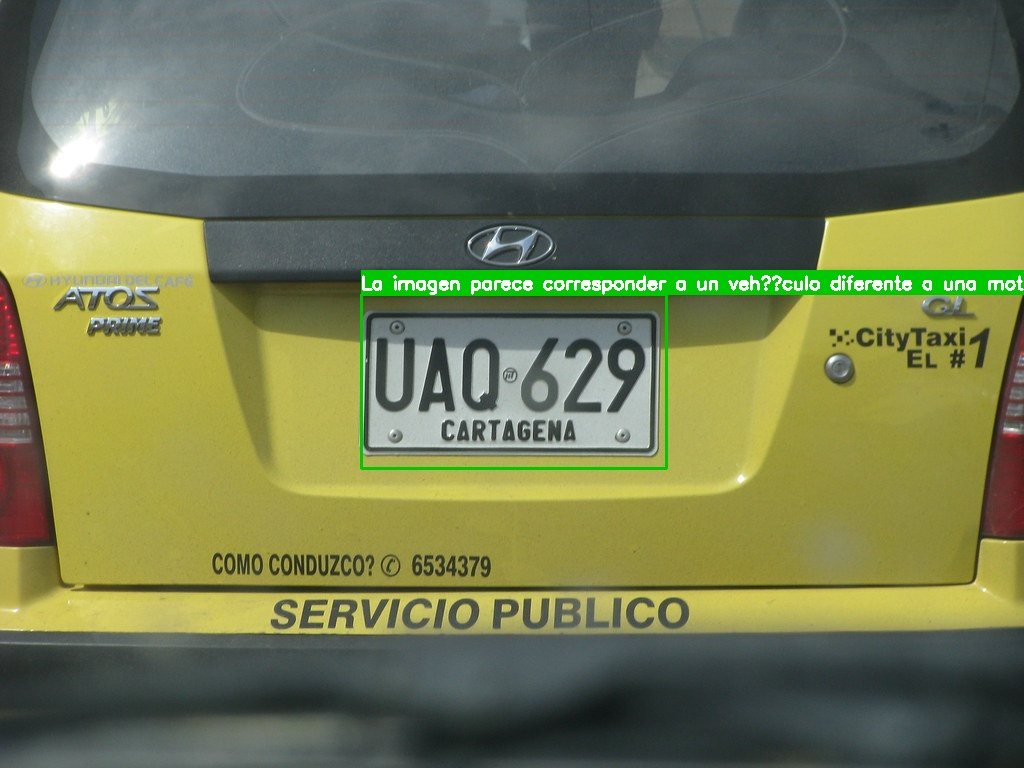
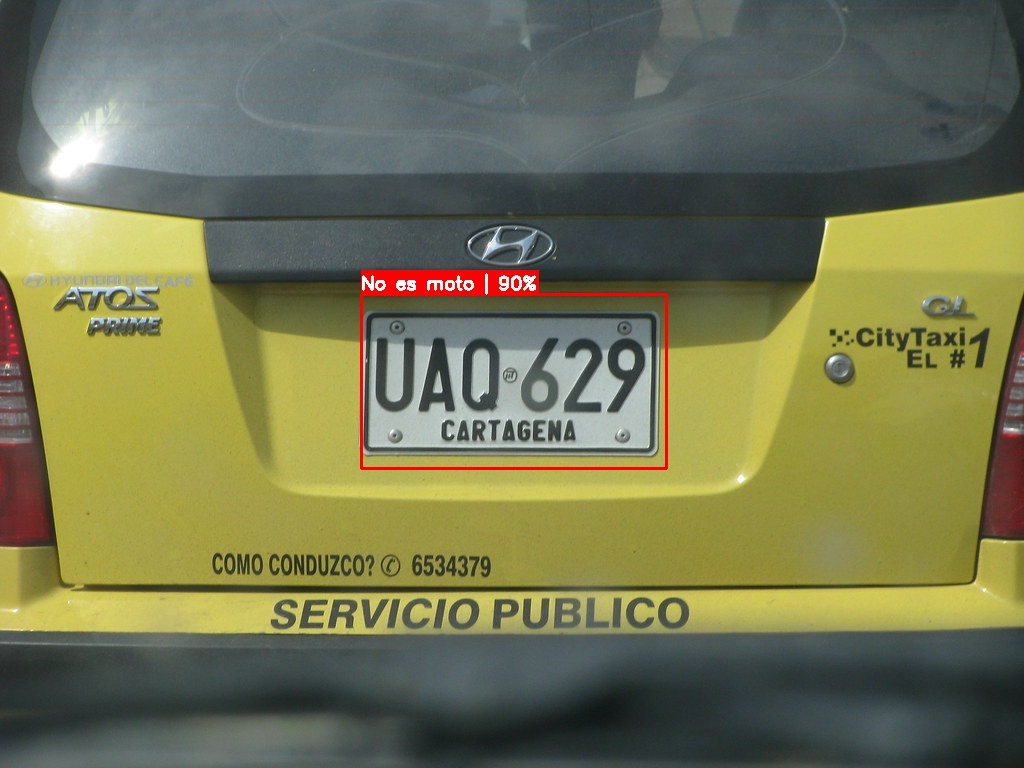
feat: Add new stat images

Changed region(s): [[0.3438, 0.3438, 1.0, 0.625]]

diff --git a/src/predict/detector.py b/src/predict/detector.py
@@ -1,7 +1,10 @@
 from pathlib import Path
+from datetime import datetime
+import json
 
 import cv2
 import numpy as np
+import matplotlib.pyplot as plt
 from ultralytics import YOLO
 
 from src.config.config import OUT_DIR
@@ -13,6 +16,7 @@ CLASSES = {0: "placa"}
 
 # Color BGR por clase (verde = particular, naranja = servicio público)
 _COLORS = {"placa": (0, 200, 0)}
+DETECTIONS_JSON = OUT_DIR / "detections.json"
 
 # Carga los pesos del modelo YOLOv8 directamente desde el disco.
 def load_model(model_path: str) -> YOLO:
@@ -25,15 +29,106 @@ def _draw_label(image: np.ndarray, label: str, x1: int, y1: int, color: tuple) -
     cv2.putText(image, label, (x1, y1 - 5),
                 cv2.FONT_HERSHEY_SIMPLEX, 0.6, (255, 255, 255), 2)
 
+
+def _load_history() -> list:
+    """Lee el JSON acumulativo; si no existe devuelve lista vacía."""
+    if DETECTIONS_JSON.exists():
+        with open(DETECTIONS_JSON, "r", encoding="utf-8") as f:
+            return json.load(f)
+    return []
+
+
+def _save_history(history: list) -> None:
+    """Sobreescribe el JSON con el historial actualizado."""
+    with open(DETECTIONS_JSON, "w", encoding="utf-8") as f:
+        json.dump(history, f, ensure_ascii=False, indent=2)
+
+def _generate_pie_chart(history: list) -> None:
+    """
+    Torta: proporción de resultados en toda la sesión.
+    Categorías: Moto válida / Otro vehículo / Sin detección
+    """
+    counts = {"Moto válida": 0, "Otro vehículo": 0, "Sin detección": 0}
+    for entry in history:
+        counts[entry["categoria"]] += 1
+
+    labels = [k for k, v in counts.items() if v > 0]
+    values = [v for v in counts.values() if v > 0]
+    colors = ["#4CAF50", "#F44336", "#9E9E9E"][:len(labels)]
+
+    fig, ax = plt.subplots(figsize=(5, 5))
+    ax.pie(values, labels=labels, colors=colors, autopct="%1.0f%%",
+           startangle=90, textprops={"fontsize": 12})
+    ax.set_title("Distribución de resultados", fontsize=14, fontweight="bold")
+
+    plt.tight_layout()
+    plt.savefig(OUT_DIR / "chart_pie.png", dpi=120)
+    plt.close(fig)
+
+
+def _generate_bar_chart(history: list) -> None:
+    """
+    Barras: confianza del modelo por cada detección (últimas 15).
+    Solo incluye registros donde hubo detección real (confianza > 0).
+    """
+    detected = [e for e in history if e["confianza"] > 0][-15:]
+
+    if not detected:
+        return
+
+    labels = [e["archivo"][:12] + "…" if len(e["archivo"]) > 12
+              else e["archivo"] for e in detected]
+    values = [e["confianza"] for e in detected]
+    bar_colors = ["#4CAF50" if e["categoria"] == "Moto válida"
+                  else "#F44336" for e in detected]
+
+    fig, ax = plt.subplots(figsize=(8, 4))
+    bars = ax.bar(range(len(labels)), values, color=bar_colors, edgecolor="white")
+    ax.set_xticks(range(len(labels)))
+    ax.set_xticklabels(labels, rotation=30, ha="right", fontsize=8)
+    ax.set_ylim(0, 1)
+    ax.set_ylabel("Confianza del modelo")
+    ax.set_title("Confianza por detección (últimas 15)", fontsize=14, fontweight="bold")
+    ax.yaxis.set_major_formatter(plt.FuncFormatter(lambda y, _: f"{y:.0%}"))
+
+    # Línea de umbral en 50%
+    ax.axhline(0.5, color="gray", linestyle="--", linewidth=1, label="Umbral 50%")
+    ax.legend(fontsize=9)
+
+    # Valor encima de cada barra
+    for bar, val in zip(bars, values):
+        ax.text(bar.get_x() + bar.get_width() / 2, bar.get_height() + 0.02,
+                f"{val:.0%}", ha="center", va="bottom", fontsize=8)
+
+    plt.tight_layout()
+    plt.savefig(OUT_DIR / "chart_bar.png", dpi=120)
+    plt.close(fig)
+
+
+
+
+
 # Ejecuta el pipeline completo de inferencia sobre una imagen dada.
 # 1. Detecta cajas con YOLO. 2. Aplica OCR y corrige lectura por cada caja.
 # 3. Verifica restricción de pico y placa. 4. Dibuja resultados y guarda la imagen.
 def run_detection(image_path: str, model: YOLO, conf_threshold: float = 0.5) -> None:
     results = model(image_path, conf=conf_threshold, imgsz=1024)[0]
     image   = cv2.imread(image_path)
+    history = _load_history()
 
     if len(results.boxes) == 0:
-        print("No se detectaron placas de motos en la imagen.")
+        print("No se detectaron placas en la imagen.")
+
+        history.append({
+            "archivo": Path(image_path).name,
+            "placa": "—",
+            "confianza": 0,
+            "categoria": "Sin detección",
+            "timestamp": datetime.now().strftime("%Y-%m-%d %H:%M:%S"),
+        })
+        _save_history(history)
+        _generate_pie_chart(history)
+        _generate_bar_chart(history)
         return
 
     ocr = build_reader()
@@ -50,15 +145,32 @@ def run_detection(image_path: str, model: YOLO, conf_threshold: float = 0.5) -> 
         raw_text   = read_text(ocr, processed)
         plate_text = correct_plate(raw_text)
 
-        print(f"Moto detectada -> Placa extraída: {plate_text} | Precisión del recorte: {conf:.1%}")
+        is_car = "vehículo diferente" in plate_text
+        category = "Otro vehículo" if is_car else "Moto válida"
+
+        print(f"Placa extraída: {plate_text} | Confianza: {conf:.1%} | {category}")
 
         # Configura y dibuja las etiquetas visuales junto al cuadro delimitador.
-        label = f"{plate_text} | {conf:.0%} "
-        cv2.rectangle(image, (x1, y1), (x2, y2), color, 2)
-        _draw_label(image, label, x1, y1, color)
+        box_color = (0, 0, 255) if is_car else color
+        label = f"{plate_text if not is_car else 'No es moto'} | {conf:.0%}"
+        cv2.rectangle(image, (x1, y1), (x2, y2), box_color, 2)
+        _draw_label(image, label, x1, y1, box_color)
 
-    # Crea el directorio de salida si no existe y exporta la imagen procesada.
-    OUT_DIR.mkdir(exist_ok=True)
+        # Acumula en historial
+        history.append({
+            "archivo": Path(image_path).name,
+            "placa": plate_text if not is_car else "Otro vehículo",
+            "confianza": round(conf, 4),
+            "categoria": category,
+            "timestamp": datetime.now().strftime("%Y-%m-%d %H:%M:%S"),
+        })
+
     output_path = OUT_DIR / ("result_" + Path(image_path).name)
     cv2.imwrite(str(output_path), image)
     print(f"\nImagen guardada en: {output_path}")
+
+    # Persiste historial y regenera gráficas
+    _save_history(history)
+    _generate_pie_chart(history)
+    _generate_bar_chart(history)
+    print(f"Gráficas y JSON actualizados en: {OUT_DIR}")

diff --git a/src/predict/ocr_utils.py b/src/predict/ocr_utils.py
@@ -62,5 +62,5 @@ def correct_plate(text: str) -> str:
 
     if chars[3].isdigit() and chars[4].isdigit() and chars[5].isdigit():
         return "La imagen parece corresponder a un vehículo diferente a una moto"
-    
+
     return "".join(chars)
